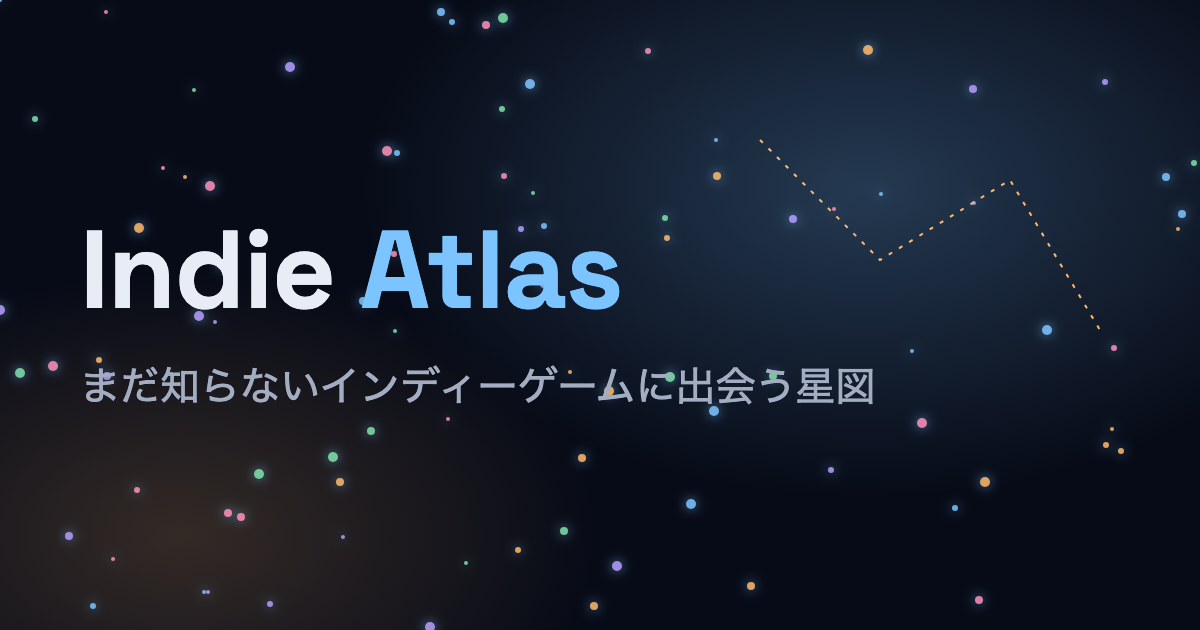
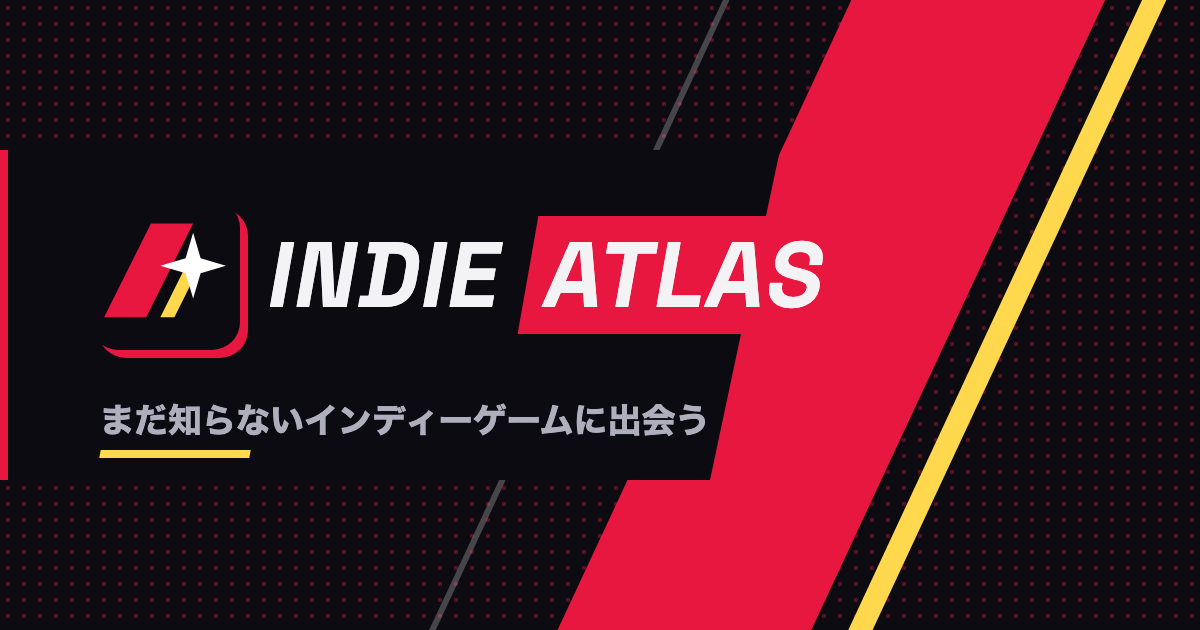
feat(brand): refresh the default OG image and copy for the new design

diff --git a/src/config/site.ts b/src/config/site.ts
@@ -2,7 +2,7 @@
 export const site = {
   name: 'Indie Atlas',
   nameJa: 'インディーアトラス',
-  tagline: 'まだ知らないインディーゲームに出会う星図',
+  tagline: 'まだ知らないインディーゲームに出会う',
   description:
     'Indie Atlas は、インディーゲームのライブラリ兼ショーケースです。出典に基づく作品の情報、関連記事、テーマ別のコレクションから、遊び方や雰囲気で作品を探せます。',
   // 訂正依頼の窓口（D-10 の既定値: リポジトリが公開なら GitHub の Issue のフォーム）
